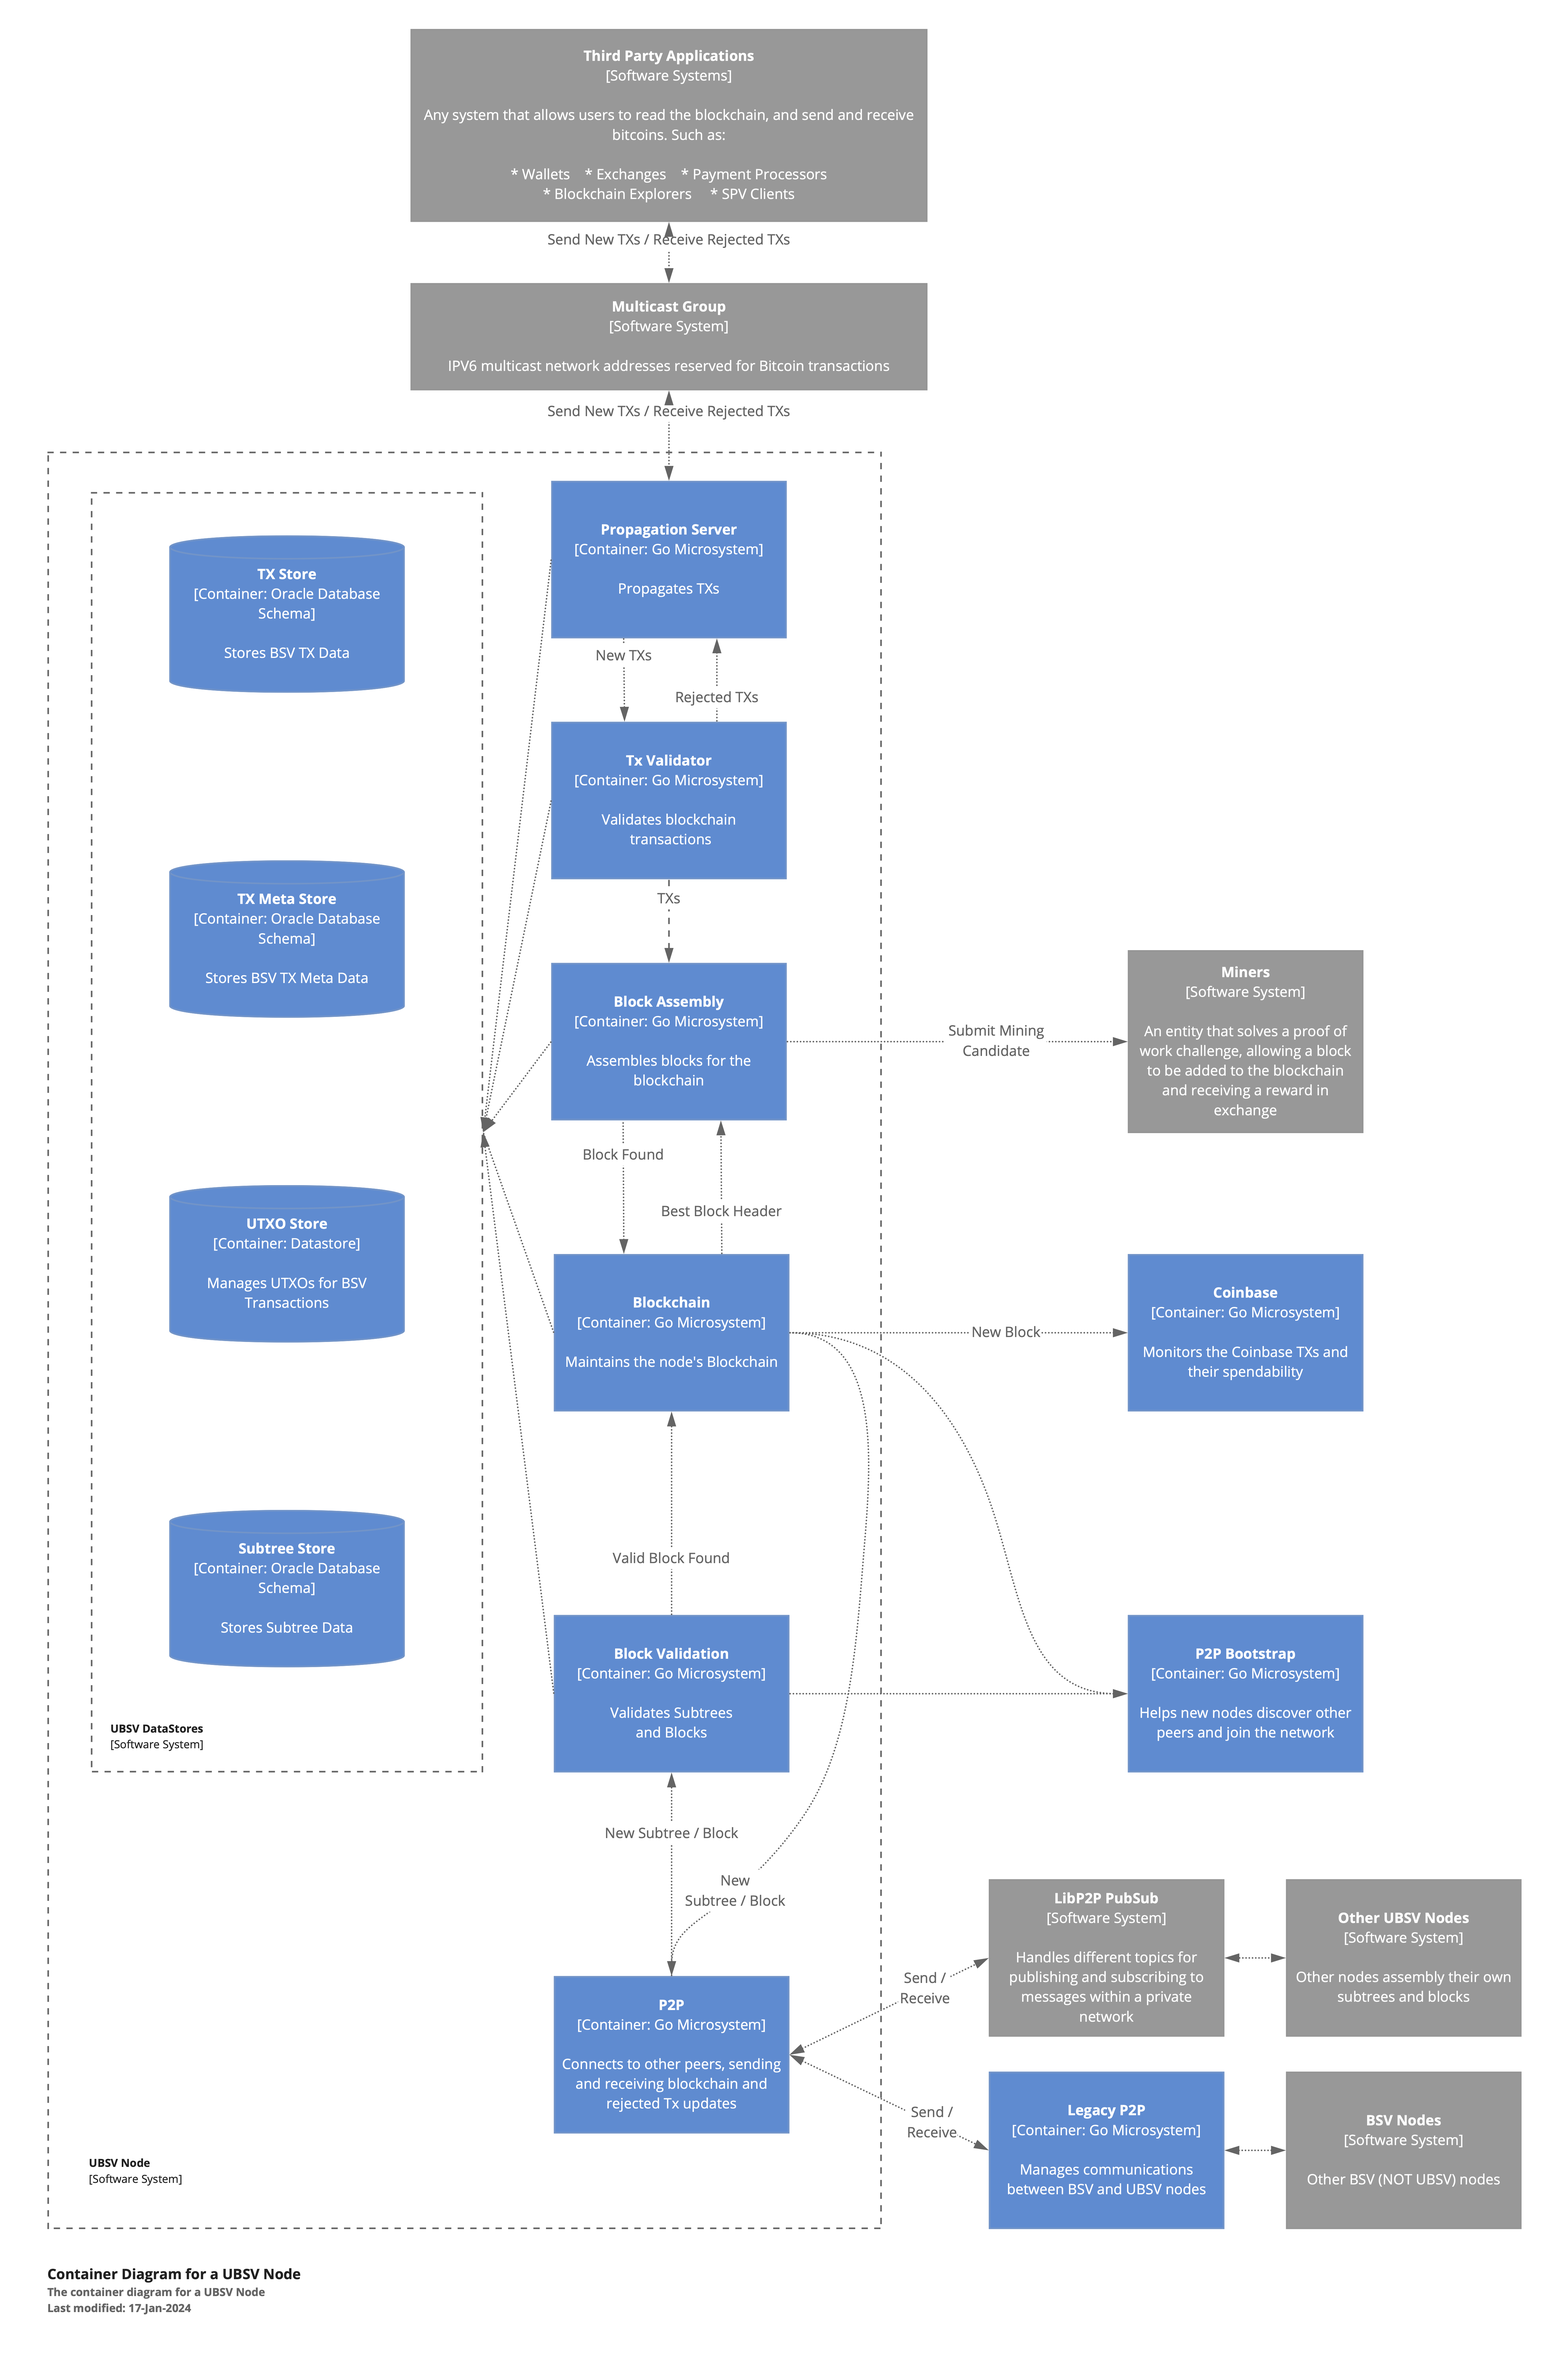
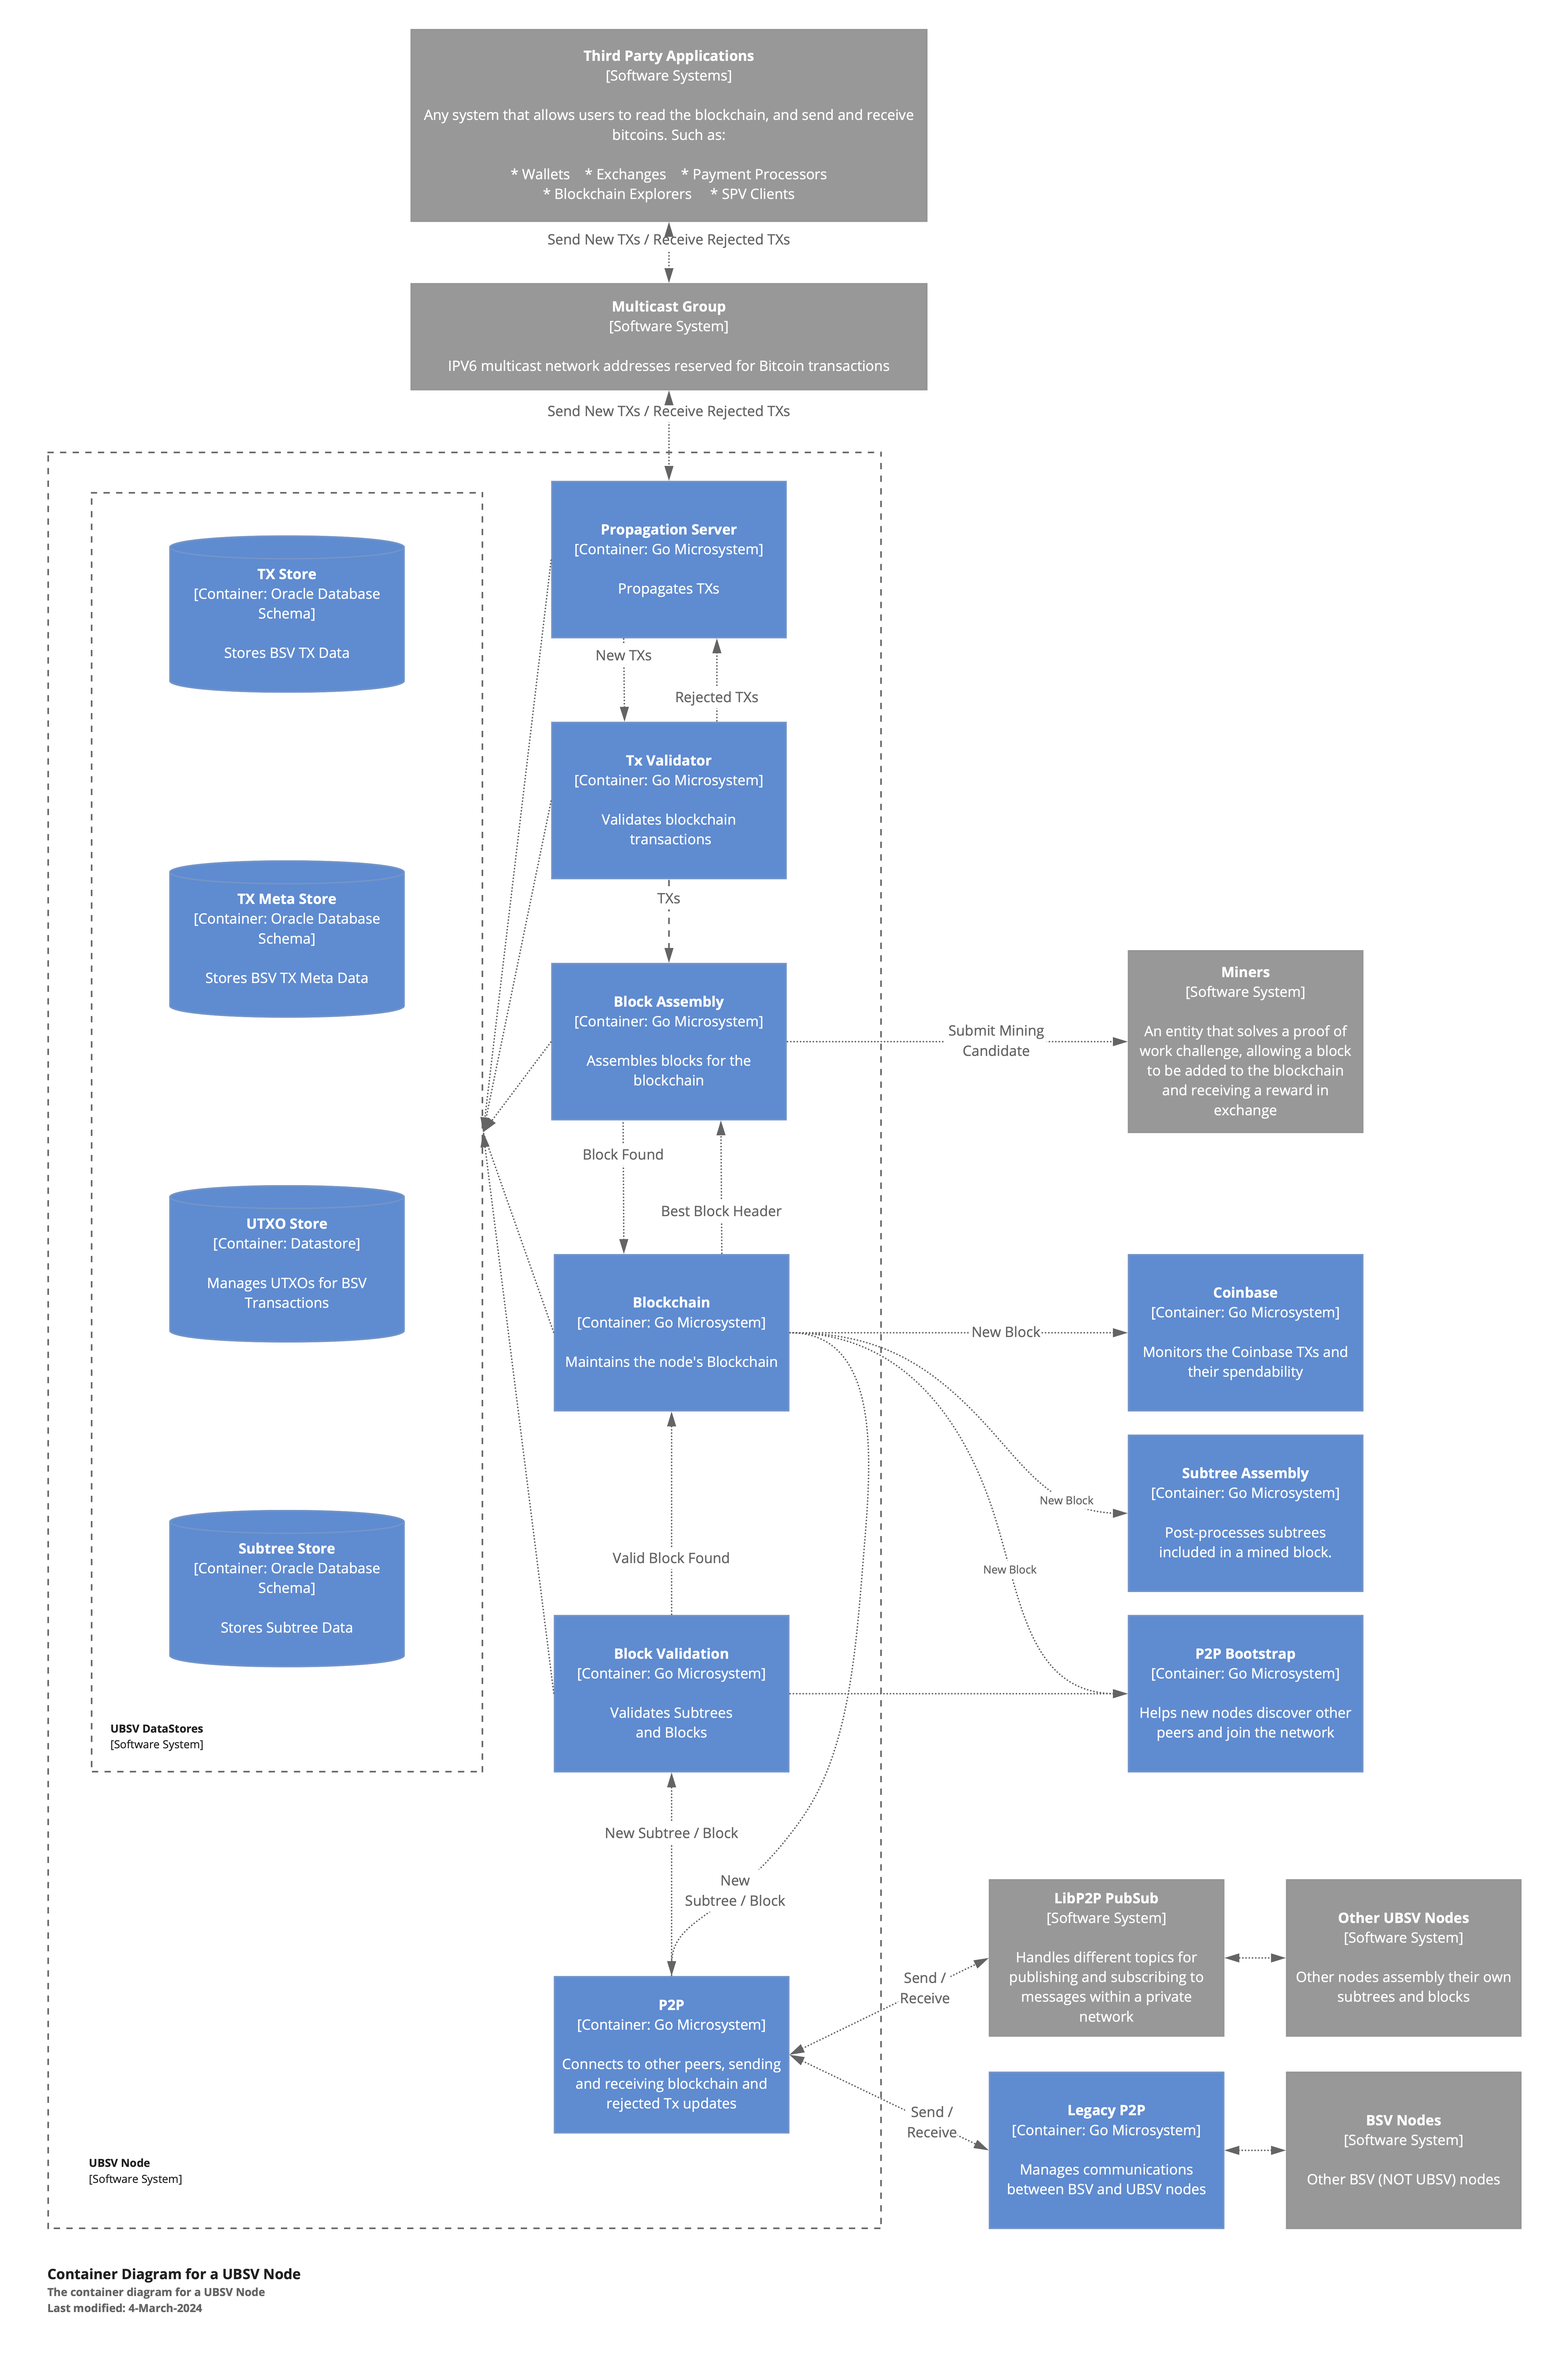
Documentation - Subtree Assembly service, and corrections to associated services and architecture diagrams.

Changed region(s): [[0.7148, 0.5936, 0.8702, 0.6873]]

diff --git a/docs/services/subtreeAssembly.md b/docs/services/subtreeAssembly.md
@@ -1,0 +1,101 @@
+# 🔍 SubTree Assembly Service
+
+## Index
+
+
+## 1. Description
+
+The Subtree Assembly service is an overlay microservice responsible for post-processing subtrees after they have been added to blocks.
+
+When a new block is added to the blockchain, the Subtree Assembly decorates all transactions in the block subtrees, making sure the tx meta data is included (extended tx format).
+
+This service fulfills a critical role in the Teranode network, ensuring that subtrees are correctly processed and saved with the necessary metadata for required audit / traceability.
+
+It must be noted that the post-processed subtree data is not automatically consumed by any other service from this point on. The decorated subtrees are however valuable for future data inspection.
+
+![Subtree_Assembly_Service_Container_Diagram.png](img%2FSubtree_Assembly_Service_Container_Diagram.png)
+
+* The Subtree Assembly consumes notifications from the Blockchain service, and stores the decorated subtree txs in the subtree store.
+
+![Subtree_Assembly_Service_Components_Diagram.png](img%2FSubtree_Assembly_Service_Components_Diagram.png)
+
+* The Blockchain service relies on Kafka for its new block notifications, to which the Subtree Assembly service subscribes to.
+
+
+## 2. Functionality
+
+### 2.1 Service Initialization
+
+![subtree_assembly_init.svg](img%2Fplantuml%2Fsubtreeassembly%2Fsubtree_assembly_init.svg)
+
+- The service starts by initializing a connection to the subtree store and subscribing to the new block notifications from Kafka.
+- Additionally, it subscribes to internally generated subtree notifications.
+
+### 2.2 Receiving a new Block Notification
+
+![subtree_assembly_receive_new_blocks.svg](img%2Fplantuml%2Fsubtreeassembly%2Fsubtree_assembly_receive_new_blocks.svg)
+
+- The Blockchain service, after adding a new block, emits a Kafka notification which is received by the Subtree Assembly service.
+- The Subtree Assembly service then extracts every subtree from the block and processes each one.
+  - To do, each subtree is sent to a kafka topic, and then consumed by the same service.
+  - The Subtree Assembly consumes and processes the subtree notifications in parallel, allowing for efficient processing of a large number of subtrees.
+
+### 2.3 Processing a Subtree
+
+The processing of a specific subtree (in the ProcessSubtree method) involves the following steps:
+
+![subtree_assembly_process_subtree.svg](img%2Fplantuml%2Fsubtreeassembly%2Fsubtree_assembly_process_subtree.svg)
+
+- The subtree data is obtained from the subtree store based on the hash.
+- Iterating over each Tx in the Subtree, the service decorates all transactions (txMetaStore.MetaBatchDecorate).
+- A new subtree blob is generated with the decorated transactions.
+- The new subtree blob is saved with the decorated transactions in the subtree store, overriding the original subtree blob.
+
+
+## 3. Data Model
+
+The Subtree Assembly service data model is identical in scope to the Block Validation model. Please refer to the Block Validation documentation [here](blockValidation.md#4-data-model) for more information.
+
+## 4. Technology
+
+1. **Go (Golang):** The primary programming language used for developing the service.
+
+2. **Bitcoin SV (BSV) Libraries:**
+  - **Data Models and Utilities:** For handling BSV blockchain data structures and operations, including transaction and block processing.
+
+3. **Apache Kafka:**
+  - **Distributed Messaging:** Used for consuming block and subtree notifications and producing messages related to subtree processing.
+
+4. **Storage Libraries:**
+  - **Blob Store:** For storing and retrieving the subtree blobs.
+  - **Transaction Metadata Store:** To access and store transaction metadata-
+
+5. **Configuration and Logging:**
+  - **Dynamic Configuration:** For managing service settings, including Kafka broker URLs and worker configurations.
+  - **Logging:** For monitoring service operations, error handling, and debugging.
+
+
+## 5. Directory Structure and Main Files
+
+The Subtree Assembly service is located in the `services/subtreeassembly` directory. All logic can be found on the `Server.go` file.
+
+## 6. How to run
+
+To run the Subtree Assembly Service locally, you can execute the following command:
+
+```shell
+SETTINGS_CONTEXT=dev.[YOUR_USERNAME] go run -SubtreeAssembly=1
+```
+
+Please refer to the [Locally Running Services Documentation](../locallyRunningServices.md) document for more information on running the Block Assembly Service locally.
+
+
+## 7. Configuration options (settings flags)
+
+1. **Kafka Brokers URLs for Blocks and Subtrees:**
+  - **`block_kafkaBrokers`**: This URL setting is used to configure the Kafka brokers for listening to blockchain block notifications.
+  - **`subtree_kafkaBrokers`**: Similar to the block Kafka brokers, this URL is for the Kafka brokers dedicated to subtree notifications. It's obtained using `gocore.Config().GetURL("subtree_kafkaBrokers")`. The service utilizes this URL to connect to the Kafka cluster for receiving and sending subtree-related messages.
+
+2. **Worker Settings for Kafka Listeners:**
+  - **`block_kafkaWorkers`**: This setting specifies the number of workers to use for the Kafka blocks listener.
+  - **`subtree_kafkaWorkers`**: Similarly, this setting defines the number of workers for the Kafka subtrees listener.
